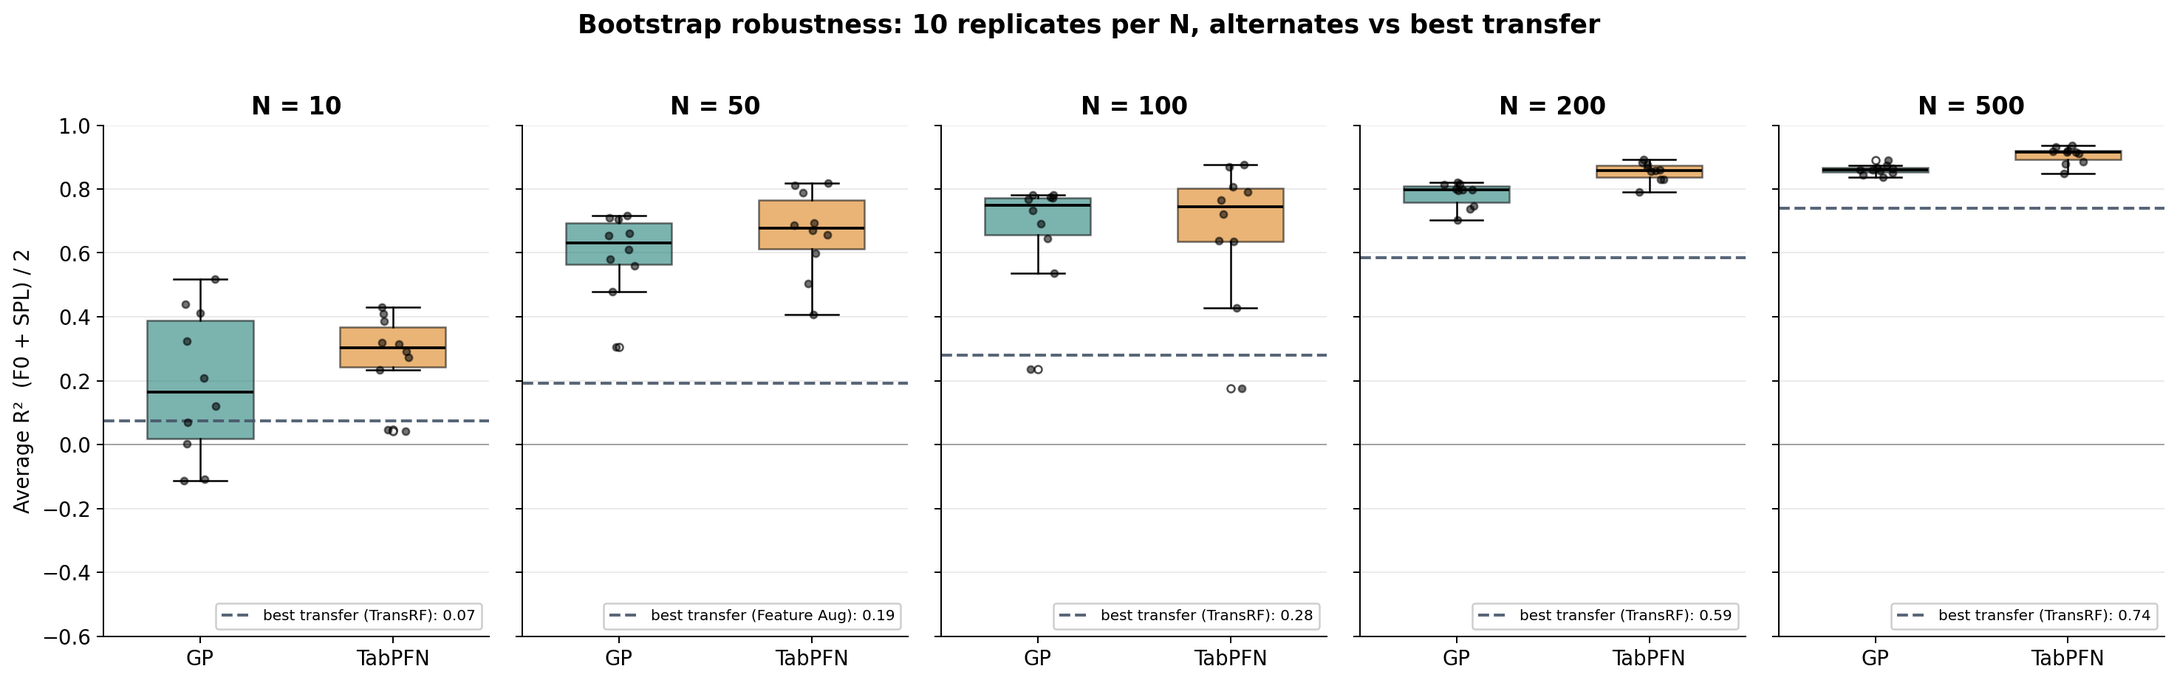
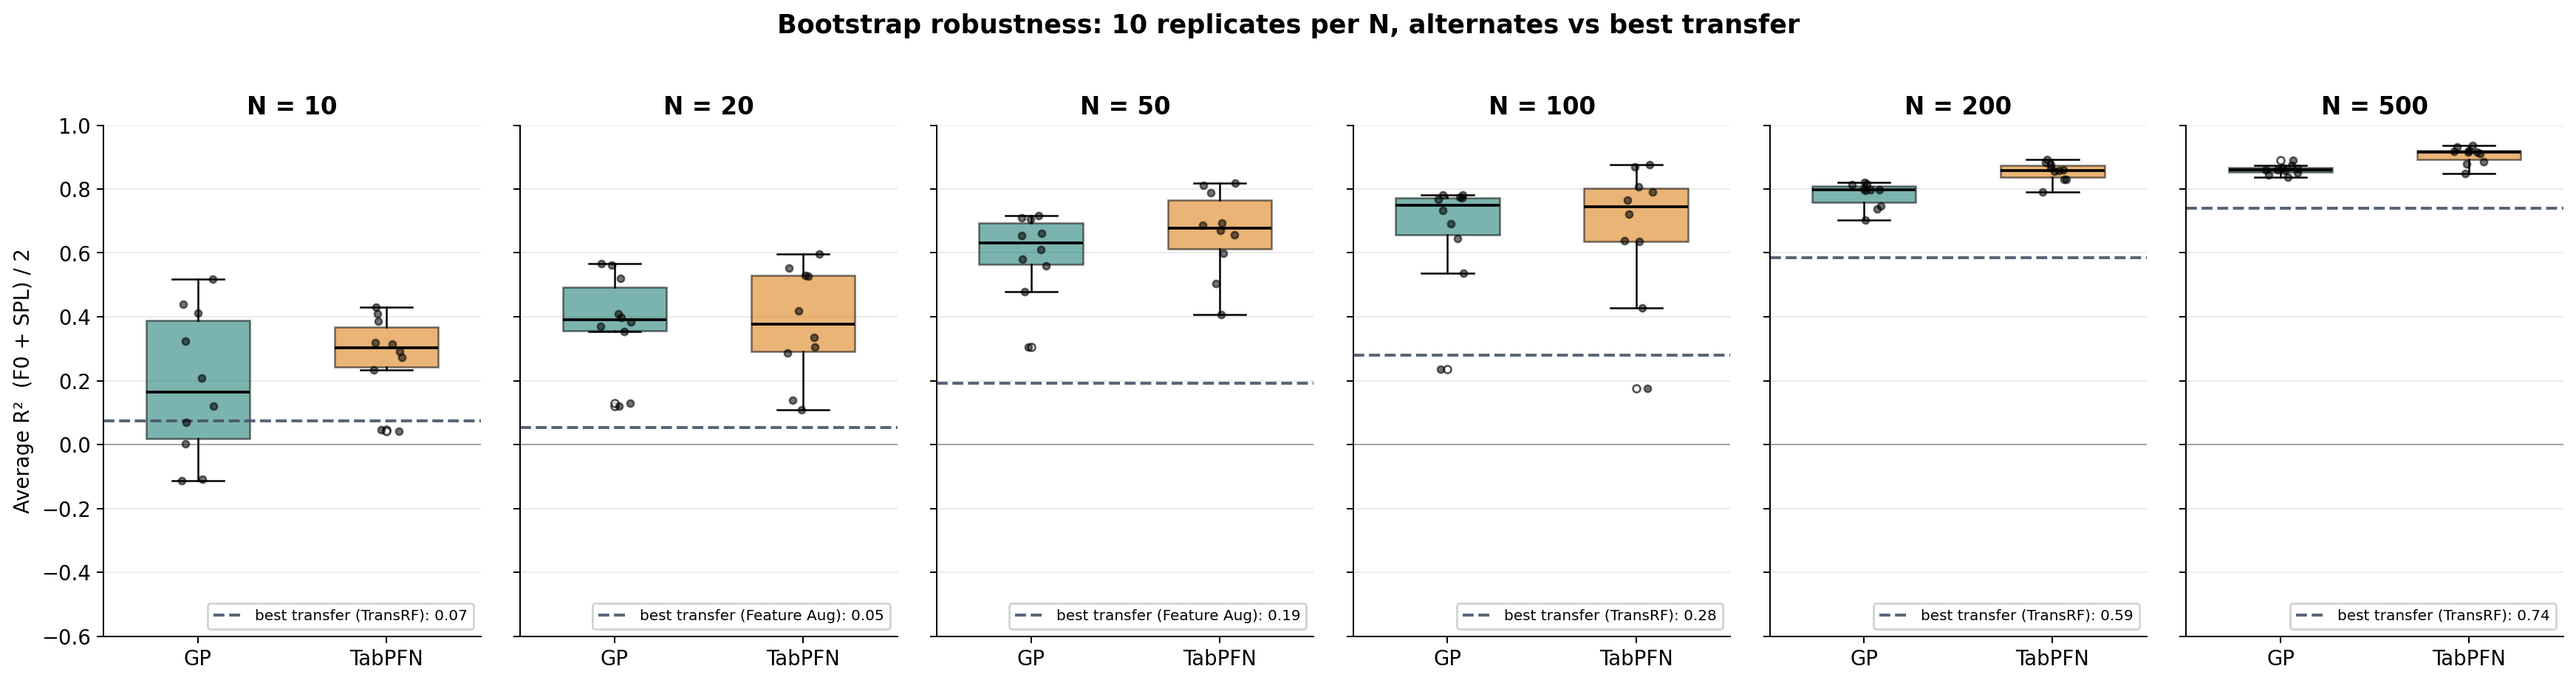
feat(BM): add N=20 panel to bootstrap boxplot showcase
One-line edit to BM_Showcase.py — the N=20 data already existed in
alternates_results.json from the BM_GP/TabPFN sweep; only the showcase
candidates list excluded it.

At N=20 both GP and TabPFN median R^2 = 0.38 (full bootstrap range
~0.11-0.59), versus best-transfer (Feature Aug) at 0.054. The new panel
sits between N=10 (GP wins by ~0.10) and N=50 (gap widens to ~0.47),
showing the alternates lead is established by N=20 with comfortable margin.

Other three showcase figures regenerated incidentally (no data changes).

TODO #16. Plan Task 1.

diff --git a/Beam_Membrane/BM_Showcase.py b/Beam_Membrane/BM_Showcase.py
@@ -295,7 +295,7 @@ def fig_bootstrap():
     alt = load_alternates()
     # Show progression including extended N range. Only include N's actually
     # present for both GP and TabPFN.
-    candidates = [10, 50, 100, 200, 500]
+    candidates = [10, 20, 50, 100, 200, 500]
     key_ns = [n for n in candidates if n in alt.get('GP', {}) and n in alt.get('TabPFN', {})]
     if not key_ns:
         print('  WARN: no overlapping N values for bootstrap figure')
